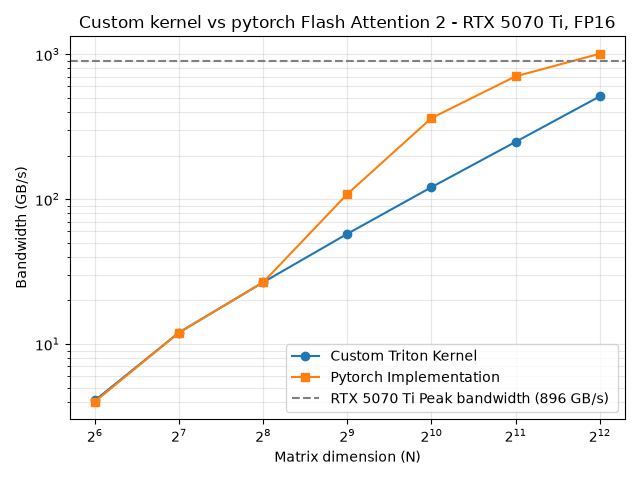
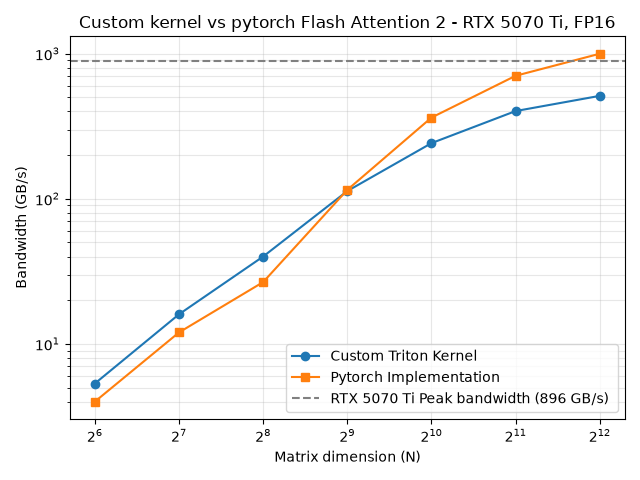
Autotune done on the forward pass

diff --git a/forward/kernel_fa2_forward.py b/forward/kernel_fa2_forward.py
@@ -1,3 +1,6 @@
+import os
+os.environ["TRITON_PRINT_AUTOTUNING"] = "1"
+
 import triton
 import triton.language as tl
 import torch
@@ -5,6 +8,17 @@ import torch.nn.functional as F
 
 from math import ceil, sqrt
 
[email redacted](configs=[
+    triton.Config(kwargs={"BS_row" : 32, "BS_col" : 32}, num_stages=3),
+    triton.Config(kwargs={"BS_row" : 32, "BS_col" : 32}, num_stages=4),
+    triton.Config(kwargs={"BS_row" : 32, "BS_col" : 64}, num_stages=4),
+    triton.Config(kwargs={"BS_row" : 64, "BS_col" : 64}, num_stages=4),
+    triton.Config(kwargs={"BS_row" : 16, "BS_col" : 128}, num_stages=2),
+    triton.Config(kwargs={"BS_row" : 16, "BS_col" : 128}, num_stages=3),
+
+],
+    key=["size_row", "size_col"]
+)
 @triton.jit
 def _kernel_fa2_forward(
     q_ptr, k_ptr, v_ptr, o_ptr, L_ptr,
@@ -12,7 +26,6 @@ def _kernel_fa2_forward(
     stride_q_row, stride_k_col,
     stride_v_col,
     output_dtype : tl.constexpr,
-    nb_tiles_col : tl.constexpr,
     BS_row : tl.constexpr,
     BS_col : tl.constexpr,
     
@@ -39,6 +52,8 @@ def _kernel_fa2_forward(
     o_row = tl.zeros((BS_row, hidden_dimension), dtype=tl.float32)
     l_row = tl.zeros((BS_row,), dtype=tl.float32)
     m_row = tl.full((BS_row,), float("-inf"), dtype=tl.float32)
+    
+    nb_tiles_col = tl.cdiv(size_col, BS_col)
 
     for j in range(nb_tiles_col):
         offset_col = j * BS_col + tl.arange(0, BS_col)
@@ -119,15 +134,10 @@ def fa2_forward(
     
     o_tensor = torch.empty((N, d), dtype=dtype, device=device)
     L_tensor = torch.empty((N,), dtype=torch.float32, device=device)
-    
-    BS_row = 64
-    BS_col = 64
-    nb_tiles_row = ceil(N / BS_row)
-    nb_tiles_col = ceil(N / BS_col)
-    
+
     hidden_dimension = triton.next_power_of_2(d)
     
-    grid = (nb_tiles_row, )
+    grid = lambda META : (ceil(N / META["BS_row"]), )
     
     args = (
         q_tensor, k_tensor, v_tensor,
@@ -135,8 +145,7 @@ def fa2_forward(
         N, N, hidden_dimension, d, d_sqrt,
         stride_q_row, stride_k_row, 
         stride_v_row, 
-        torch_to_triton_dtypes[dtype],
-        nb_tiles_col, BS_row, BS_col
+        torch_to_triton_dtypes[dtype]
     )
     
     _kernel_fa2_forward[grid](*args)        #type:ignore
@@ -145,7 +154,7 @@ def fa2_forward(
     
 
 if __name__ == "__main__":
-    N = 128
+    N = 2048
     d = 64
     
     dtype = torch.bfloat16

diff --git a/benchmark/forward_benchmark.py b/benchmark/forward_benchmark.py
@@ -1,3 +1,5 @@
+# pyright : reportOperatorIssue = false
+
 import torch
 import triton
 import torch.nn.functional as F
@@ -48,7 +50,7 @@ def benchmark_forward():
         bytes_transferred = math.ceil((N/64)) * (4*64*d + 4*N*d)
         
         brandwidth_kernel = (bytes_transferred / (ms_kernel )) * 1e-6
-        brandwidth_torch = (bytes_transferred / (ms_torch )) * 1e-6
+        brandwidth_torch = (bytes_transferred / (ms_torch )) * 1e-6 
         
         dict["size_N"].append(N)
         dict["kernel"].append(brandwidth_kernel)